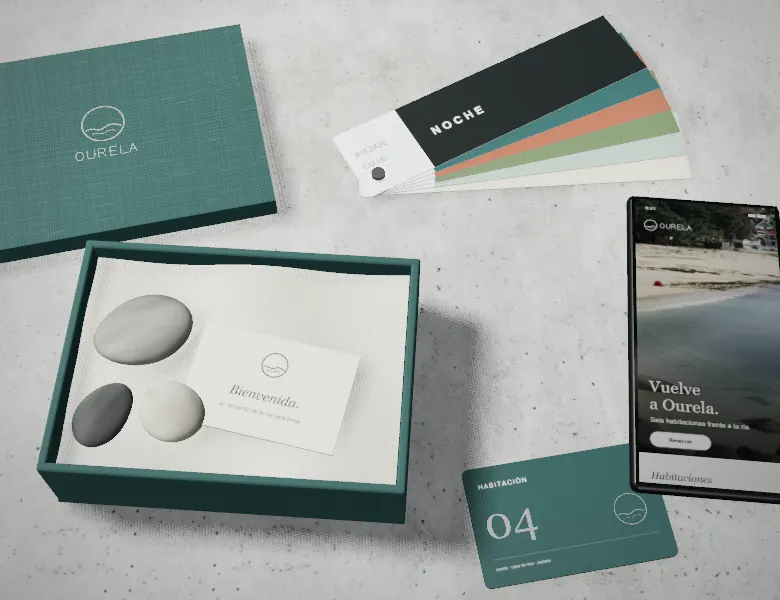
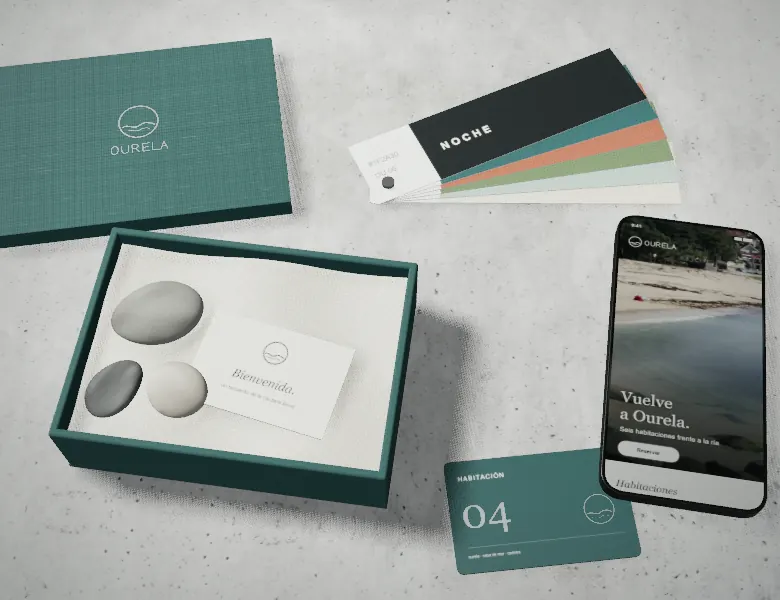
Identity scene: the phone's foot firmer, phone framing eased; both loading stills redone

diff --git a/src/components/Identity/StationeryScene.tsx b/src/components/Identity/StationeryScene.tsx
@@ -1114,7 +1114,10 @@ async function build(host: HTMLDivElement, onReady: () => void, paused: { curren
     gloss.rotation.x = -Math.PI / 2;
     gloss.position.y = 0.0825;
     gloss.userData.flat = true;
-    phone.add(body, glass, screen, gloss, contact(0.76, 1.56));
+    // (the thickest piece, so the darkest foot: a second, firmer contact under it, or it seemed to hover)
+    const foot = contact(0.74, 1.54);
+    (foot.material as THREE.MeshBasicMaterial).opacity = 1;
+    phone.add(body, glass, screen, gloss, contact(0.8, 1.6), foot);
     phone.position.set(1.45, 0, 0.18);
     phone.rotation.y = -0.1;
     add(phone);
@@ -1373,7 +1376,7 @@ async function build(host: HTMLDivElement, onReady: () => void, paused: { curren
     // (never closer than the wide frame's 30°: a frame just short of 16:9, as the studio's can be by a pixel,
     // used to jump in close)
     // (wide and nearly wide frames all at 30°; only a phone's narrow one gets its own, closer view)
-    camera.fov = camera.aspect >= 1.4 ? 30 : THREE.MathUtils.radToDeg(2 * Math.atan((Math.tan(half) * 0.7) / camera.aspect));
+    camera.fov = camera.aspect >= 1.4 ? 30 : THREE.MathUtils.radToDeg(2 * Math.atan((Math.tan(half) * 0.76) / camera.aspect));
     // a narrow frame (a phone's) also aims a little further back on the table, so the pieces sit lower and
     // no empty band is left beneath them
     aimBack = camera.aspect >= 1.4 ? 0.1 : 0.2;
